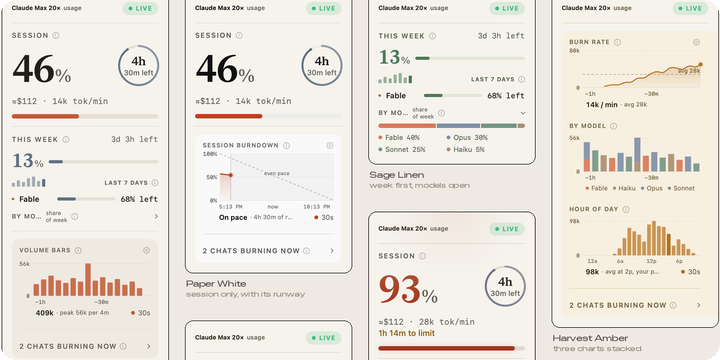
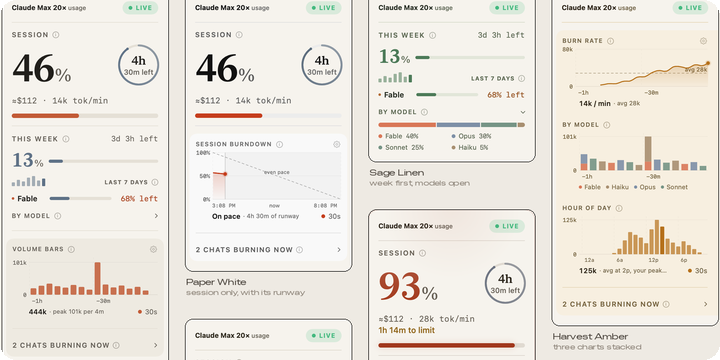
Burndown 0.9.5

diff --git a/Sources/Views.swift b/Sources/Views.swift
@@ -56,6 +56,15 @@ func qaSettingsPaneHeight(_ t: SettingsTab) -> CGFloat {
 
 struct Palette {
     var bg, ink, sub, faint, track, divider, live, session, weekly, warning, overLimit, raisedBg: Color
+    /// The hero hues, deepened enough to be READ rather than only seen.
+    ///
+    /// `session` and `weekly` are tuned as graphics: a dot, a bar in a groove, held to the 3:1 WCAG
+    /// asks of a graphical object. The moment one of them colours a NUMBER it is text, and text is
+    /// held to 4.5:1. Using the graphic version there failed in 28 of the 42 palette and scheme
+    /// combinations, so the text version is derived once, per palette, alongside every other
+    /// legibility correction. Filled in by `legible`; never set by hand.
+    var sessionText: Color = .clear
+    var weeklyText: Color = .clear
     // The selected whole-app palette. AppSettings keeps this in sync; views read it via of().
     static var current: PalettePreset = .stoneClay
     // raisedBg: inner chart-card / raised-surface fill. Derived per preset as bg blended
@@ -143,6 +152,9 @@ struct Palette {
         // hue and saturation untouched, so a theme still looks like itself.
         q.session   = deepen(p.session, over: [p.bg, p.track], dark: dark, 3.0)
         q.weekly    = deepen(p.weekly, over: [p.bg, p.track], dark: dark, 3.0)
+        // Same hues again, taken further, for the places they carry a number instead of a shape.
+        q.sessionText = deepen(q.session, over: [p.bg], dark: dark, 4.5)
+        q.weeklyText  = deepen(q.weekly, over: [p.bg], dark: dark, 4.5)
         return q
     }
 
@@ -274,9 +286,16 @@ struct CapLimitRow: View {
             .frame(width: nameWidth, alignment: .leading)
             HBar(pct: m.pct, color: m.active ? barColor : barColor.opacity(0.6), track: p.track, height: 5,
                  a11yLabel: "\(m.label) weekly cap")
+            // Tinted to its own bar, so the number and the bar it belongs to read as one thing.
+            // The binding cap keeps the session hue it is already marked with; the rest take the
+            // weekly slate at full strength, which still clears contrast because the roles were
+            // corrected at palette level.
+            // Tinted to its own bar, so the number and the bar it belongs to read as one thing,
+            // but in the TEXT-safe version of the hue: the graphic one is only held to 3:1.
             Text("\(Int((m.remaining * 100).rounded()))% left")
                 .font(.system(size: 12, weight: .medium, design: .monospaced)).monospacedDigit()
-                .foregroundStyle(p.ink).frame(width: valueWidth, alignment: .trailing)
+                .foregroundStyle(m.active ? p.sessionText : p.weeklyText)
+                .frame(width: valueWidth, alignment: .trailing)
         }
         .help("\(m.label): \(Int((m.pct * 100).rounded()))% of its own weekly cap used" + (m.resetAt.map { ", resets \(resetDayString($0))" } ?? ""))
     }

diff --git a/Sources/Snapshot.swift b/Sources/Snapshot.swift
@@ -859,12 +859,17 @@ enum StyleSheet {
                          date: kv.value.date, tokens: kv.value.tokens,
                          cost: Double(kv.value.tokens) / 1_000_000 * 12.5)
         }
+        // Must be at least InsightsView's own minWidth. When the window was widened to a 900pt
+        // floor this render was left at 640, and a view cannot shrink below its minimum: it simply
+        // overflowed the canvas, so every published screenshot of Insights had its right-hand
+        // column sliced off mid-word. Rendering at the window's ideal width keeps the two in step.
+        let shotW: CGFloat = 1160
         let view = InsightsView(engine: engine, settings: settings, preview: (recs, sessions))
-            .frame(width: 640, height: 1500, alignment: .topLeading)
+            .frame(width: shotW, height: 1500, alignment: .topLeading)
             .background(p.bg)
             .environment(\.colorScheme, dark ? .dark : .light)
         let renderer = ImageRenderer(content: view)
-        renderer.proposedSize = ProposedViewSize(width: 640, height: 1500)
+        renderer.proposedSize = ProposedViewSize(width: shotW, height: 1500)
         renderer.scale = 2
         guard let img = renderer.nsImage, let tiff = img.tiffRepresentation,
               let rep = NSBitmapImageRep(data: tiff),

diff --git a/Sources/ContrastAudit.swift b/Sources/ContrastAudit.swift
@@ -65,6 +65,13 @@ enum ContrastAudit {
              fg: { $0.overLimit }, bg: { $0.bg }, decorative: false),
         Pair(name: "live on bg", where_: "the live indicator", size: 11, bold: false,
              fg: { $0.live }, bg: { $0.bg }, decorative: false),
+        // The cap rows tint their "% left" to match their bar, which turns a hue that is otherwise
+        // only ever SHOWN into one that is READ. That is a different bar entirely, so it is checked
+        // as text rather than assumed to be fine because the dot version passes.
+        Pair(name: "session as cap text", where_: "the binding cap's % left", size: 12, bold: false,
+             fg: { $0.sessionText }, bg: { $0.bg }, decorative: false),
+        Pair(name: "weekly as cap text", where_: "a cap row's % left", size: 12, bold: false,
+             fg: { $0.weeklyText }, bg: { $0.bg }, decorative: false),
         // --- structure ---
         // The FILLED part of a usage bar against its own groove is the pair that carries the
         // reading, and WCAG holds that to 3:1. The groove against the window behind it does not:

diff --git a/Sources/Settings.swift b/Sources/Settings.swift
@@ -273,7 +273,7 @@ enum LiveColor: String, CaseIterable, Identifiable {
     }
 }
 let kAppName = "Burndown"           // app name (floating window title + About). Tagline: "usage monitor for Claude"
-let kAppVersion = "0.9.4"           // bump on release builds; 1.0 is reserved for Developer ID signing + multi-provider
+let kAppVersion = "0.9.5"           // bump on release builds; 1.0 is reserved for Developer ID signing + multi-provider
 let kMinWindowAlpha = 0.45          // most see-through the windows go at 100% transparency (keeps text legible)
 
 // A curated set: every style earns its place, all keep a small footprint (most are

diff --git a/site/index.html b/site/index.html
@@ -38,7 +38,7 @@
   "url": "https://burndown-app.pages.dev/",
   "downloadUrl": "https://github.com/maz0x/burndown/releases/latest",
   "installUrl": "https://github.com/maz0x/burndown/releases/latest",
-  "softwareVersion": "0.9.4",
+  "softwareVersion": "0.9.5",
   "license": "https://www.apache.org/licenses/LICENSE-2.0",
   "isAccessibleForFree": true,
   "offers": {"@type": "Offer", "price": "0", "priceCurrency": "USD"},

diff --git a/docs/RELEASE_NOTES.md b/docs/RELEASE_NOTES.md
@@ -1,5 +1,15 @@
 # What's new in Burndown
 
+## 0.9.5
+
+- **The screenshot of the Insights window on the site was cut off down its right-hand side.** The
+  window was widened in 0.9.4 but the picture of it was still being drawn at the old, narrower
+  size, so the last column was sliced off mid-word in every published shot.
+- **The "% left" figure on each weekly limit now matches the colour of its own bar**, so the number
+  and the bar read as one thing rather than two. It uses a deepened version of that colour: the
+  hues used for bars and dots are tuned to be seen, not read, and using them for a number directly
+  fell below the readability standard in most of the themes.
+
 ## 0.9.4
 
 - **Insights opens in a fraction of a second instead of several.** The scan behind it read every
